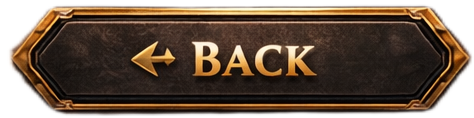
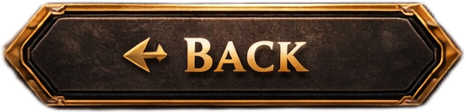
fixed ui and make responsive

diff --git a/frontend/src/components/GameBoard.tsx b/frontend/src/components/GameBoard.tsx
@@ -18,7 +18,7 @@ function getCardImg(rank: number | string, suit: string): string {
   return `/cards/${r}${s}.png`;
 }
 
-function SideDeck({ count, label, isMe }: { count: number; label: string; isMe: boolean }) {
+function SideDeck({ count, label, isMe, scoreChange }: { count: number; label: string; isMe: boolean; scoreChange?: number | null }) {
   const layers = Math.min(count, 5);
   return (
     <div className="flex flex-col items-center gap-2">
@@ -40,23 +40,47 @@ function SideDeck({ count, label, isMe }: { count: number; label: string; isMe: 
         ))}
       </div>
       <p className="font-bold text-xs uppercase tracking-widest" style={{ color: 'rgba(255,255,255,0.5)' }}>{label}</p>
-      <p className="font-black text-lg" style={{ color: '#d4a74a', textShadow: '0 0 8px rgba(245,158,11,0.5)' }}>{count}</p>
+      <div className="relative">
+        <p className="font-black text-lg" style={{ color: '#d4a74a', textShadow: '0 0 8px rgba(245,158,11,0.5)' }}>{count}</p>
+        <AnimatePresence>
+          {scoreChange !== null && scoreChange !== undefined && (
+            <motion.p
+              key={`score-${scoreChange}`}
+              className="absolute font-black text-sm"
+              style={{
+                color: scoreChange > 0 ? '#22c55e' : '#ef4444',
+                textShadow: '0 0 10px currentColor',
+                left: '50%',
+                transform: 'translateX(-50%)',
+                top: 24,
+              }}
+              initial={{ opacity: 1, y: 0 }}
+              animate={{ opacity: 0, y: 15 }}
+              exit={{ opacity: 0 }}
+              transition={{ duration: 1.5 }}
+            >
+              {scoreChange > 0 ? `+${scoreChange}` : scoreChange}
+            </motion.p>
+          )}
+        </AnimatePresence>
+      </div>
     </div>
   );
 }
 
 function BigCard({ card, label, won }: { card?: { rank: number | string; suit: string } | null; label: string; won?: boolean }) {
   return (
-    <div className="flex flex-col items-center gap-3">
-      <p className="text-sm font-bold uppercase tracking-widest" style={{ color: 'rgba(255,255,255,0.6)' }}>{label}</p>
-      <div className="relative" style={{ width: 130, height: 182 }}>
+    <div className="flex flex-col items-center gap-2 sm:gap-3">
+      <p className="text-xs sm:text-sm font-bold uppercase tracking-widest" style={{ color: 'rgba(255,255,255,0.75)' }}>{label}</p>
+      <div className="relative" style={{ width: 'clamp(90px, 25vw, 130px)', height: 'clamp(126px, 35vw, 182px)' }}>
         {[2, 1].map(i => (
           <div
             key={i}
-            className="absolute rounded-xl overflow-hidden"
+            className="absolute rounded-lg sm:rounded-xl overflow-hidden"
             style={{
-              width: 120, height: 168,
-              top: i * 4, left: i * 3,
+              width: 'clamp(84px, 23vw, 120px)',
+              height: 'clamp(117px, 32vw, 168px)',
+              top: i * 3, left: i * 2,
               zIndex: 3 - i,
               boxShadow: '0 4px 14px rgba(0,0,0,0.75)',
             }}
@@ -67,10 +91,12 @@ function BigCard({ card, label, won }: { card?: { rank: number | string; suit: s
         <AnimatePresence mode="wait">
           <motion.div
             key={card ? `${card.rank}-${card.suit}` : 'back'}
-            className="absolute rounded-xl overflow-hidden"
+            className="absolute rounded-lg sm:rounded-xl overflow-hidden"
             style={{
-              width: 120, height: 168, top: 0, left: 0, zIndex: 10,
-              boxShadow: won ? '0 0 30px rgba(34,197,94,0.6), 0 8px 24px rgba(0,0,0,0.9)' : '0 8px 24px rgba(0,0,0,0.85)',
+              width: 'clamp(84px, 23vw, 120px)',
+              height: 'clamp(117px, 32vw, 168px)',
+              top: 0, left: 0, zIndex: 10,
+              boxShadow: '0 8px 24px rgba(0,0,0,0.85)',
             }}
             initial={{ rotateY: card ? 90 : 0, scale: 0.9 }}
             animate={{ rotateY: 0, scale: 1 }}
@@ -84,14 +110,6 @@ function BigCard({ card, label, won }: { card?: { rank: number | string; suit: s
             )}
           </motion.div>
         </AnimatePresence>
-        {won && (
-          <motion.div
-            className="absolute inset-0 rounded-xl pointer-events-none"
-            style={{ border: '2px solid #22c55e', zIndex: 20, width: 120, height: 168,
-              boxShadow: 'inset 0 0 20px rgba(34,197,94,0.3)' }}
-            initial={{ opacity: 0 }} animate={{ opacity: 1 }}
-          />
-        )}
       </div>
     </div>
   );
@@ -106,6 +124,9 @@ export default function GameBoard() {
 
   const [showWinAnim, setShowWinAnim] = useState(false);
   const [showRules, setShowRules] = useState(false);
+  const [prevCounts, setPrevCounts] = useState<{ [key: string]: number }>({});
+  const [myScoreChange, setMyScoreChange] = useState<number | null>(null);
+  const [opponentScoreChange, setOpponentScoreChange] = useState<number | null>(null);
 
   if (!gameId || !playerId) return null;
 
@@ -131,6 +152,23 @@ export default function GameBoard() {
     }
   }, [roundWinner, roundNumber, isWar]);
 
+  useEffect(() => {
+    if (Object.keys(cardCounts).length > 0 && Object.keys(prevCounts).length > 0) {
+      const myChange = myCount - (prevCounts[playerId] ?? myCount);
+      const oppChange = opponentCount - (prevCounts[opponentId] ?? opponentCount);
+      
+      if (myChange !== 0) {
+        setMyScoreChange(myChange);
+        setTimeout(() => setMyScoreChange(null), 1500);
+      }
+      if (oppChange !== 0) {
+        setOpponentScoreChange(oppChange);
+        setTimeout(() => setOpponentScoreChange(null), 1500);
+      }
+    }
+    setPrevCounts(cardCounts);
+  }, [cardCounts, playerId, opponentId, myCount, opponentCount, prevCounts]);
+
   const handleFlip = () => {
     if (!gameId || myReady) return;
     setMyReady(true);
@@ -147,17 +185,37 @@ export default function GameBoard() {
     <div className="relative min-h-screen w-full flex flex-col select-none">
 
       {/* ── TOP BAR ── */}
-      <div className="relative z-20 flex items-start justify-between px-6 pt-5">
+      <div className="relative z-20 flex items-start justify-between px-3 sm:px-6 pt-3 sm:pt-5">
         <Link href="/lobby">
           <motion.button
             className="relative"
             whileHover={{ scale: 1.05 }}
             whileTap={{ scale: 0.95 }}
           >
-            <Image src="/back.png" alt="Back" width={150} height={50} className="object-contain" />
+            <Image src="/back.png" alt="Back" width={100} height={33} className="object-contain sm:w-[150px] sm:h-[50px]" />
           </motion.button>
         </Link>
 
+        <div className="flex items-center gap-3">
+          <motion.button
+            type="button"
+            onClick={() => setShowRules(true)}
+            className="w-9 h-9 rounded-full flex items-center justify-center font-black text-sm"
+            style={{
+              background: 'linear-gradient(to bottom, #2b1c0b, #1a1208)',
+              border: '1px solid #78501a',
+              color: '#d4a74a',
+              boxShadow: '0 2px 8px rgba(0,0,0,0.6)',
+            }}
+            whileHover={{ scale: 1.05 }}
+            whileTap={{ scale: 0.95 }}
+            aria-label="Game rules"
+          >
+            i
+          </motion.button>
+          <div className="hidden sm:block" style={{ width: 40 }} />
+        </div>
+      </div>
         <div className="flex flex-col items-center gap-1">
           <h1
             className="font-black tracking-[0.15em] leading-none"
@@ -194,27 +252,6 @@ export default function GameBoard() {
             </motion.div>
           )}
         </div>
-
-        <div className="flex items-center gap-3">
-          <motion.button
-            type="button"
-            onClick={() => setShowRules(true)}
-            className="w-9 h-9 rounded-full flex items-center justify-center font-black text-sm"
-            style={{
-              background: 'linear-gradient(to bottom, #2b1c0b, #1a1208)',
-              border: '1px solid #78501a',
-              color: '#d4a74a',
-              boxShadow: '0 2px 8px rgba(0,0,0,0.6)',
-            }}
-            whileHover={{ scale: 1.05 }}
-            whileTap={{ scale: 0.95 }}
-            aria-label="Game rules"
-          >
-            i
-          </motion.button>
-          <div style={{ width: 40 }} />
-        </div>
-      </div>
 
       {showRules && (
         <div className="fixed inset-0 z-50 flex items-center justify-center px-4">
@@ -257,44 +294,53 @@ export default function GameBoard() {
               <li><span style={{ color: '#d4a74a' }}>5.</span> Game ends after 5 rounds or when a player runs out of cards.</li>
               <li><span style={{ color: '#d4a74a' }}>6.</span> If the game ends early, the player with more cards wins.</li>
             </ol>
+            <div className="mt-5 pt-4" style={{ borderTop: '1px solid rgba(120,80,26,0.3)' }}>
+              <h3 className="font-bold tracking-wider mb-2" style={{ color: '#d4a74a', fontSize: '0.9rem' }}>SCORING</h3>
+              <ul className="space-y-2 text-sm" style={{ color: 'rgba(255,255,255,0.7)' }}>
+                <li><span style={{ color: '#22c55e' }}>+2</span> cards for winning a normal round (your card + opponent's card)</li>
+                <li><span style={{ color: '#22c55e' }}>+4</span> or more cards for winning a WAR (all face-down + face-up cards)</li>
+                <li><span style={{ color: '#ef4444' }}>-2</span> cards for losing a normal round</li>
+                <li>Your score is the total number of cards you currently hold</li>
+              </ul>
+            </div>
           </motion.div>
         </div>
       )}
 
       {/* ── PLAYER SCORES ── */}
-      <div className="relative z-20 flex items-start justify-between px-10 pt-3">
-        <div className="text-center" style={{ minWidth: 130 }}>
-          <p className="font-bold text-white text-xl" style={{ textShadow: '0 2px 6px rgba(0,0,0,0.8)', fontFamily: 'Georgia, serif' }}>
+      <div className="relative z-20 flex items-start justify-between px-4 sm:px-10 pt-2 sm:pt-3">
+        <div className="text-center" style={{ minWidth: 80 }}>
+          <p className="font-bold text-white text-sm sm:text-xl" style={{ textShadow: '0 2px 6px rgba(0,0,0,0.8)', fontFamily: 'Georgia, serif' }}>
             Player 1
           </p>
-          <p className="text-xs font-mono mt-0.5" style={{ color: 'rgba(255,255,255,0.45)' }}>{oppLabel}</p>
-          <p className="font-bold tracking-widest text-sm mt-2 uppercase" style={{ color: '#d4a74a' }}>
+          <p className="text-[10px] sm:text-xs font-mono mt-0.5" style={{ color: 'rgba(255,255,255,0.45)' }}>{oppLabel}</p>
+          {/* <p className="font-bold tracking-widest text-xs sm:text-sm mt-1 sm:mt-2 uppercase" style={{ color: '#d4a74a' }}>
             Score: {opponentCount}
-          </p>
+          </p> */}
         </div>
         <div className="flex-1" />
-        <div className="text-center" style={{ minWidth: 130 }}>
-          <p className="font-bold text-white text-xl" style={{ textShadow: '0 2px 6px rgba(0,0,0,0.8)', fontFamily: 'Georgia, serif' }}>
+        <div className="text-center" style={{ minWidth: 80 }}>
+          <p className="font-bold text-white text-sm sm:text-xl" style={{ textShadow: '0 2px 6px rgba(0,0,0,0.8)', fontFamily: 'Georgia, serif' }}>
             Player 2
           </p>
-          <p className="text-xs font-mono mt-0.5" style={{ color: 'rgba(255,255,255,0.45)' }}>{myLabel}</p>
-          <p className="font-bold tracking-widest text-sm mt-2 uppercase" style={{ color: '#d4a74a' }}>
+          <p className="text-[10px] sm:text-xs font-mono mt-0.5" style={{ color: 'rgba(255,255,255,0.45)' }}>{myLabel}</p>
+          {/* <p className="font-bold tracking-widest text-xs sm:text-sm mt-1 sm:mt-2 uppercase" style={{ color: '#d4a74a' }}>
             Score: {myCount}
-          </p>
+          </p> */}
         </div>
       </div>
 
       {/* ── MAIN PLAY AREA ── */}
-      <div className="relative z-20 flex-1 flex items-center justify-center px-4" style={{ paddingBottom: 160 }}>
-        <div className="w-full max-w-4xl flex items-center justify-between gap-4">
+      <div className="relative z-20 flex-1 flex items-center justify-center px-2 sm:px-4" style={{ paddingBottom: 140 }}>
+        <div className="w-full max-w-4xl flex flex-col sm:flex-row items-center justify-between gap-3 sm:gap-4">
 
           {/* Left side — opponent won-cards deck */}
-          <div className="flex-shrink-0">
-            <SideDeck count={opponentCount} label="Opponent" isMe={false} />
+          <div className="flex-shrink-0 sm:block hidden">
+            <SideDeck count={opponentCount} label="Opponent" isMe={false} scoreChange={opponentScoreChange} />
           </div>
 
           {/* Center — big flip cards */}
-          <div className="flex-1 flex items-center justify-center gap-6">
+          <div className="flex-1 flex items-center justify-center gap-3 sm:gap-6">
             {/* Opponent center card */}
             <div className="relative">
               <BigCard card={opponentCard} label="Opponent's Card" won={opponentWon} />
@@ -312,22 +358,22 @@ export default function GameBoard() {
             </div>
 
             {/* VS divider */}
-            <div className="flex flex-col items-center gap-2 flex-shrink-0">
+            <div className="flex flex-col items-center gap-1 sm:gap-2 flex-shrink-0">
               <AnimatePresence>
                 {roundWinner && (
                   <motion.p
                     key={`result-${roundNumber}`}
-                    className="font-black text-sm tracking-widest text-center"
+                    className="font-black text-xs sm:text-sm tracking-widest text-center"
                     style={{ color: iWon ? '#22c55e' : '#ef4444', textShadow: '0 0 16px currentColor' }}
                     initial={{ opacity: 0, scale: 0.5, y: -10 }}
                     animate={{ opacity: 1, scale: 1, y: 0 }}
                     exit={{ opacity: 0 }}
                   >
-                    {iWon ? '🏆 YOU WIN' : '💀 THEY WIN'}
+                    {iWon ? '🏆 YOU WON' : '💀 YOU LOST'}
                   </motion.p>
                 )}
               </AnimatePresence>
-              <p className="font-black text-3xl" style={{ color: 'rgba(255,255,255,0.15)' }}>VS</p>
+              <p className="font-black text-xl sm:text-3xl" style={{ color: 'rgba(255,255,255,0.55)' }}>VS</p>
             </div>
 
             {/* My center card */}
@@ -348,8 +394,14 @@ export default function GameBoard() {
           </div>
 
           {/* Right side — my won-cards deck */}
-          <div className="flex-shrink-0">
-            <SideDeck count={myCount} label="Your Deck" isMe />
+          <div className="flex-shrink-0 sm:block hidden">
+            <SideDeck count={myCount} label="Your Deck" isMe scoreChange={myScoreChange} />
+          </div>
+
+          {/* Mobile deck indicators */}
+          <div className="sm:hidden flex items-center justify-between w-full px-4 mt-4">
+            <SideDeck count={opponentCount} label="Opp" isMe={false} scoreChange={opponentScoreChange} />
+            <SideDeck count={myCount} label="You" isMe scoreChange={myScoreChange} />
           </div>
 
         </div>
